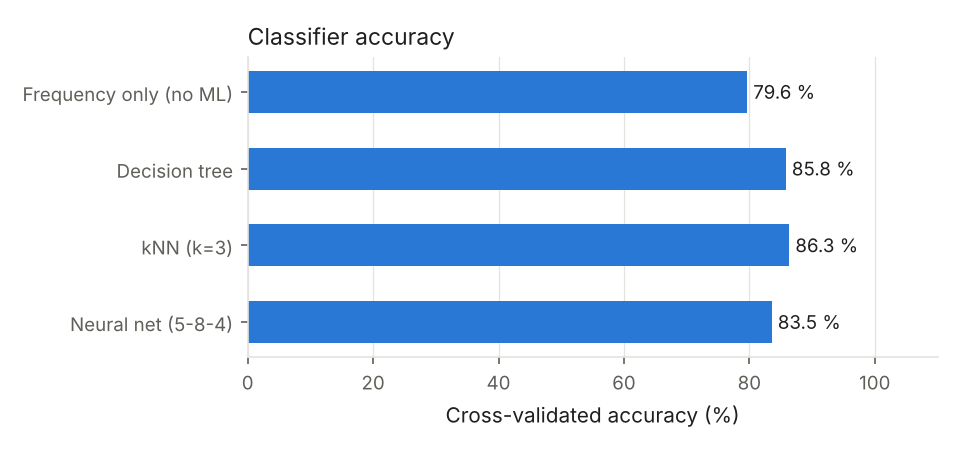
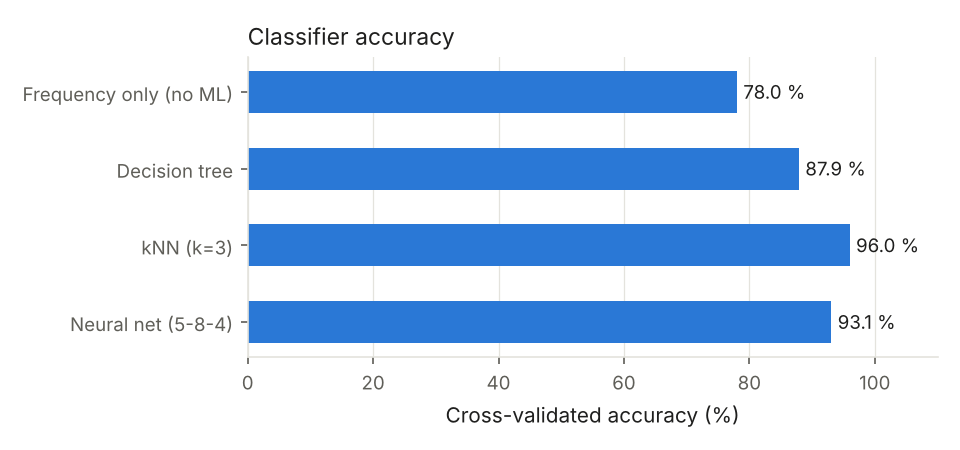
Coin (added mass) now lowers health to about 50%

diff --git a/board/model.h b/board/model.h
@@ -1,4 +1,4 @@
-/* AUTO-GENERATED by pc/train.py from 'real' data on 2026-10-29 11:03. Do not edit by hand: retrain instead. */
+/* AUTO-GENERATED by pc/train.py from 'real' data on 2026-10-29 11:23. Do not edit by hand: retrain instead. */
 #ifndef MODEL_H
 #define MODEL_H
 
@@ -181,6 +181,6 @@ static const float KNN_X[KNN_N][N_FEAT] = {
     {1.27969f, 0.980451f}
 };
 static const unsigned char KNN_Y[KNN_N] = {3, 3, 3, 3, 3, 3, 3, 3, 3, 3, 3, 3, 3, 3, 3, 3, 3, 0, 0, 0, 0, 0, 0, 0, 0, 0, 0, 0, 0, 0, 0, 0, 0, 0, 0, 0, 0, 0, 0, 0, 0, 0, 0, 0, 0, 0, 0, 0, 0, 0, 0, 0, 0, 0, 2, 2, 2, 2, 2, 2, 2, 2, 2, 2, 2, 2, 2, 2, 2, 2, 2, 2, 2, 2, 2, 2, 2, 2, 2, 2, 2, 2, 2, 2, 2, 2, 2, 2, 1, 1, 1, 1, 1, 1, 1, 1, 1, 1, 1, 1, 1};
-static const float KNN_DAMAGE[KNN_N] = {0.0f, 0.0f, 0.0f, 0.0f, 0.0f, 0.0f, 0.0f, 0.0f, 0.0f, 0.0f, 0.0f, 0.0f, 0.0f, 0.0f, 0.0f, 0.0f, 0.0f, 0.0f, 0.0f, 0.0f, 0.0f, 0.0f, 0.0f, 0.0f, 0.0f, 0.0f, 0.0f, 0.0f, 0.0f, 0.0f, 0.0f, 0.0f, 0.0f, 0.0f, 0.0f, 0.0f, 0.0f, 0.0f, 0.0f, 0.0f, 0.0f, 0.0f, 0.0f, 0.0f, 0.0f, 0.0f, 0.0f, 0.0f, 0.0f, 0.0f, 0.0f, 0.0f, 0.0f, 0.0f, 0.5f, 0.5f, 0.5f, 0.5f, 0.5f, 0.5f, 0.5f, 0.5f, 0.5f, 0.5f, 0.5f, 0.5f, 0.5f, 0.5f, 0.5f, 0.5f, 0.5f, 0.5f, 0.5f, 0.5f, 0.5f, 1.0f, 1.0f, 1.0f, 1.0f, 1.0f, 1.0f, 1.0f, 1.0f, 1.0f, 1.0f, 1.0f, 1.0f, 1.0f, 0.75f, 0.75f, 0.75f, 0.75f, 0.75f, 0.75f, 0.75f, 0.75f, 0.75f, 0.75f, 0.75f, 0.75f, 0.75f};  /* -1 = unlabelled */
+static const float KNN_DAMAGE[KNN_N] = {0.5f, 0.5f, 0.5f, 0.5f, 0.5f, 0.5f, 0.5f, 0.5f, 0.5f, 0.5f, 0.5f, 0.5f, 0.5f, 0.5f, 0.5f, 0.5f, 0.5f, 0.0f, 0.0f, 0.0f, 0.0f, 0.0f, 0.0f, 0.0f, 0.0f, 0.0f, 0.0f, 0.0f, 0.0f, 0.0f, 0.0f, 0.0f, 0.0f, 0.0f, 0.0f, 0.0f, 0.0f, 0.0f, 0.0f, 0.0f, 0.0f, 0.0f, 0.0f, 0.0f, 0.0f, 0.0f, 0.0f, 0.0f, 0.0f, 0.0f, 0.0f, 0.0f, 0.0f, 0.0f, 0.5f, 0.5f, 0.5f, 0.5f, 0.5f, 0.5f, 0.5f, 0.5f, 0.5f, 0.5f, 0.5f, 0.5f, 0.5f, 0.5f, 0.5f, 0.5f, 0.5f, 0.5f, 0.5f, 0.5f, 0.5f, 1.0f, 1.0f, 1.0f, 1.0f, 1.0f, 1.0f, 1.0f, 1.0f, 1.0f, 1.0f, 1.0f, 1.0f, 1.0f, 0.75f, 0.75f, 0.75f, 0.75f, 0.75f, 0.75f, 0.75f, 0.75f, 0.75f, 0.75f, 0.75f, 0.75f, 0.75f};  /* -1 = unlabelled */
 
 #endif

diff --git a/pc/config.py b/pc/config.py
@@ -31,7 +31,7 @@ DAMAGE_LEVEL = {
     "loose_support:3": 0.75,   # loosest the beam still holds (about 3/4 turn)
     "loose_joint:1": 0.50,   # middle binder clip removed
     "loose_joint:2": 1.00,   # also one end clip removed (1 clip left)
-    "added_mass:1": 0.0,     # Rs 20 + Rs 5 coins taped near the tip
+    "added_mass:1": 0.50,    # Rs 20 + Rs 5 coins taped near the tip (extra load lowers health)
 }
 
 # Recorded, but kept out of training. Lab result (2026-10-28): the first two
